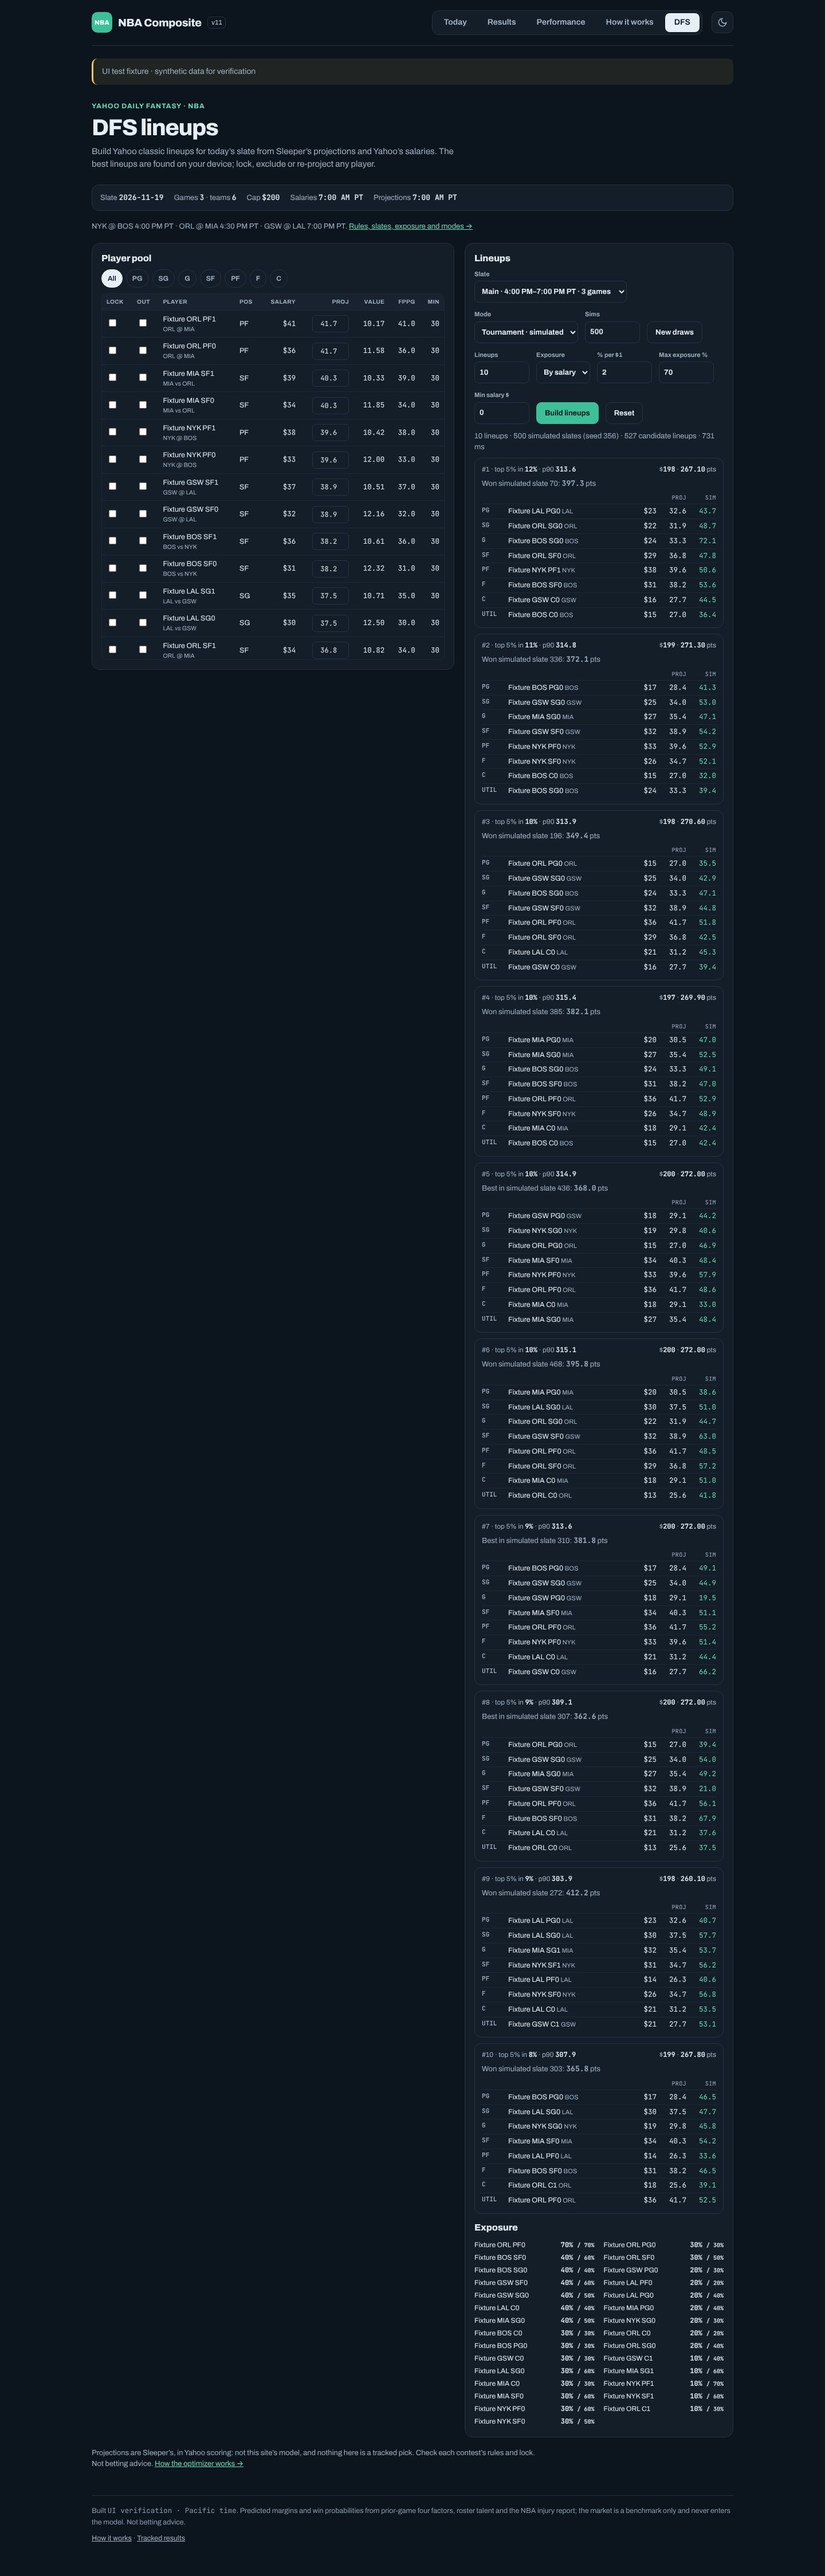
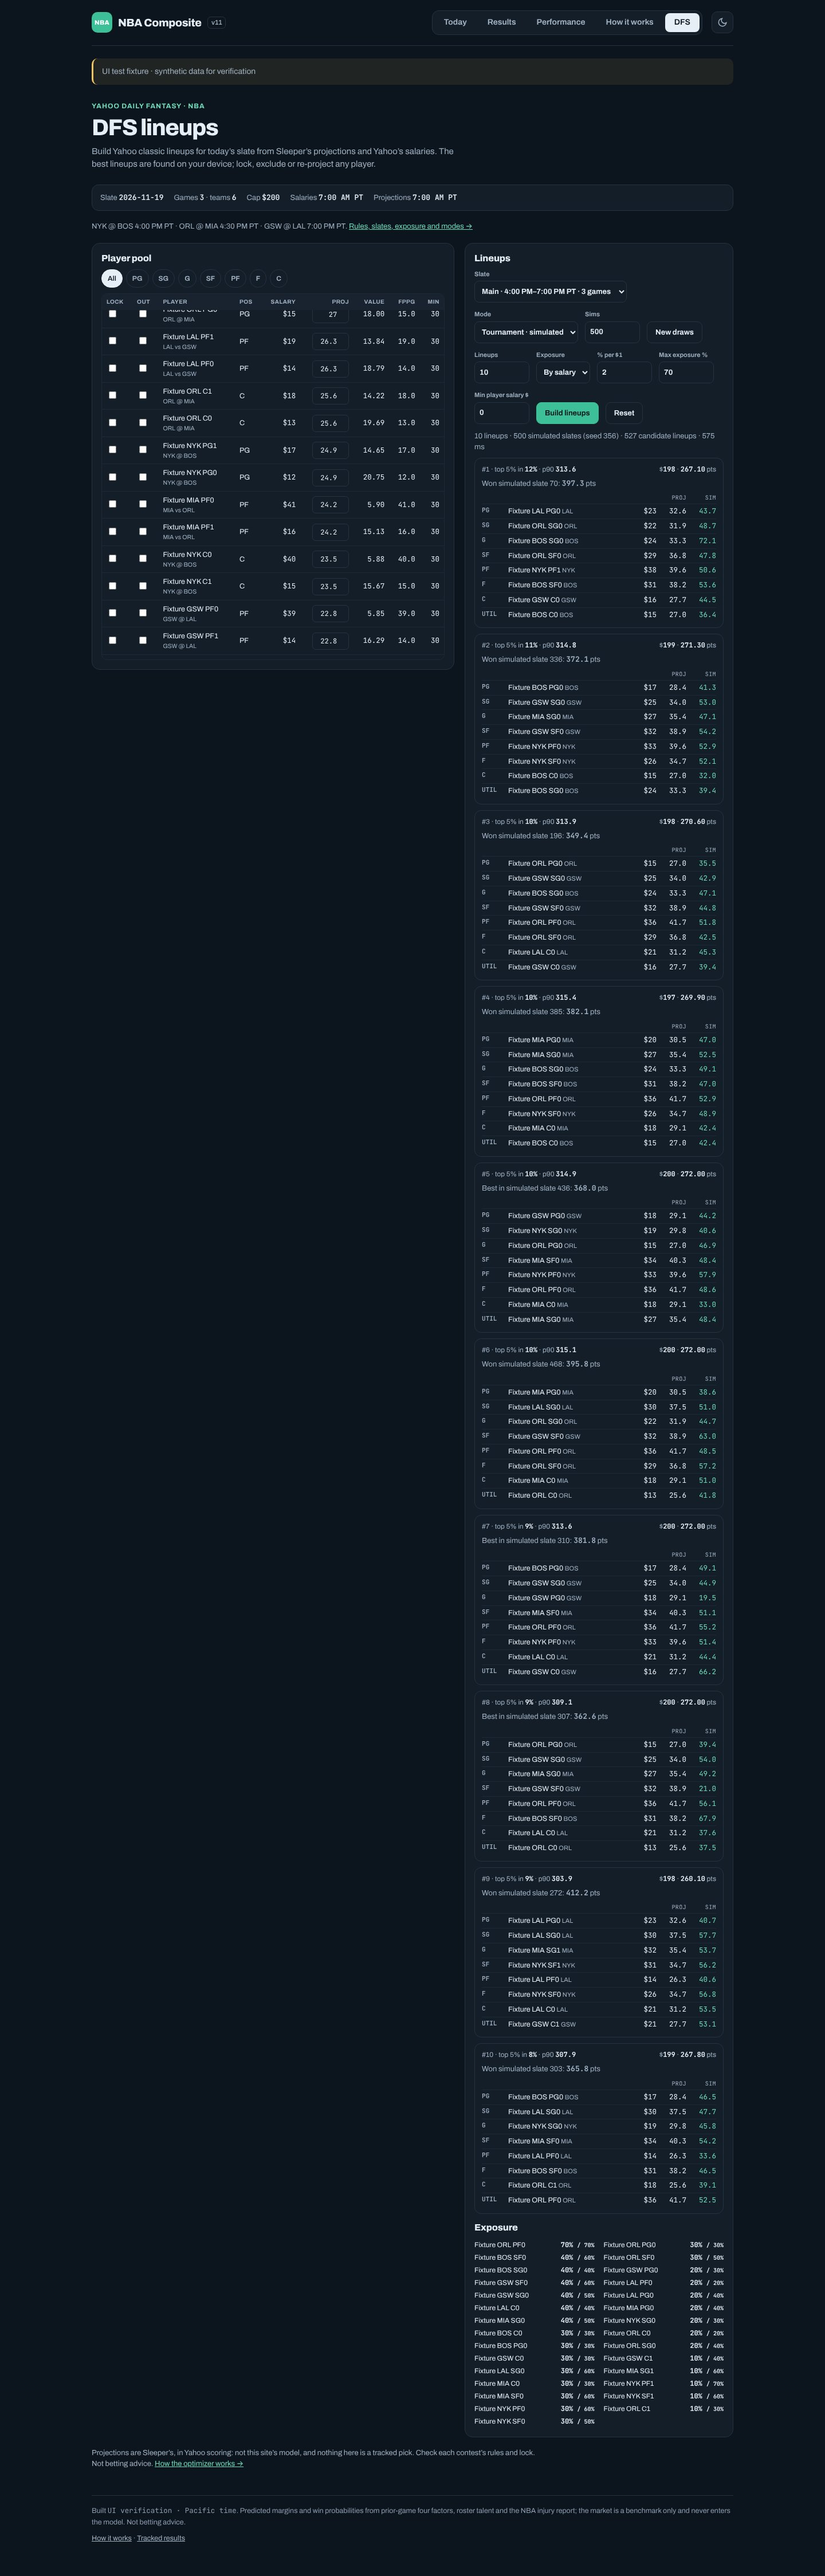
DFS page: min salary is a per-player floor, not a lineup total
Owner's request. "Min player salary $" now leaves out every player priced
below it (locked players stay; the table greys them out, "below min"),
in cash and tournament modes. The lineup-total floor is no longer used
by the page (the solver keeps the parameter, at 0). How it works says so;
the "no legal lineup" hint names the new control.

research/check_public_ui.py: with a $20 floor no lineup holds a cheaper
player in either mode, the table marks them, and a locked $12 player is
in all 10 lineups.

Claude-Session: https://claude.ai/code/session_01Tymo9A874w1j1dz2D4UFzh

Changed region(s): [[0.125, 0.1246, 0.25, 0.2491], [0.4375, 0.1246, 0.4688, 0.2491], [0.3438, 0.1246, 0.375, 0.2491]]

diff --git a/dfs.py b/dfs.py
@@ -346,7 +346,8 @@ def body(data, ui):
                 "<option value='flat'>Flat</option></select></label>"
                 "<label id='dfs-k-l'>% per $1<input type='number' id='dfs-k' min='0.5' max='5' step='0.5' value='2'></label>"
                 "<label>Max exposure %<input type='number' id='dfs-exp' min='10' max='100' step='5' value='70'></label>"
-                f"<label>Min salary $<input type='number' id='dfs-min' min='0' max='{data['cap']:g}' value='0'></label>"
+                "<label>Min player salary $<input type='number' id='dfs-min' min='0' "
+                f"max='{max((p['sal'] for p in data['players']), default=0)}' value='0'></label>"
                 "<button type='button' class='dfs-btn primary' id='dfs-go'>Build lineups</button>"
                 "<button type='button' class='dfs-btn' id='dfs-reset'>Reset</button></div>")
     pool = ("<section class='dfs-panel'><h2>Player pool</h2>"
@@ -386,7 +387,8 @@ def guide():
         "Yahoo’s season average and <b>Min</b> Sleeper’s projected minutes.</p>"
         f"<h3>Lineup rules</h3><p>Yahoo classic contests: PG, SG, G, SF, PF, F, C and UTIL under the "
         f"cap, with players from at least {MIN_TEAMS} teams and at most {MAX_PER_TEAM} from one. "
-        "Players whose game has started are left out, and locked players are in every lineup.</p>"
+        "Players whose game has started are left out, and locked players are in every lineup. "
+        "<b>Min player salary</b> leaves out every player priced below it (locked players stay).</p>"
         "<h3>Slates</h3><p>Yahoo lists the day’s games under one cap, so the slate choices come from "
         "start times: Main (every game), Early (games up to a start time) and Late (games from one), "
         "each with at least two games.</p>"
@@ -539,7 +541,10 @@ function inSlate(p){if(!st.slate)return true;var t=Date.parse(p.start);return t>
 function esc(s){return String(s).replace(/[&<>"']/g,function(c){return {'&':'&amp;','<':'&lt;','>':'&gt;','"':'&quot;',"'":'&#39;'}[c];});}
 function proj(p){return st.proj[p.id]!==undefined?st.proj[p.id]:p.proj;}
 function started(p){return Date.parse(p.start)<=Date.now();}
-function pool(){return D.players.filter(function(p){var v=proj(p);return inSlate(p)&&!st.out[p.id]&&!started(p)&&v!==null&&v!==undefined&&(v>0||st.lock[p.id]);})
+// players under the min player salary are left out unless locked
+function floor(){return Math.max(0,+$('dfs-min').value||0);}
+function cheap(p){return p.sal<floor()&&!st.lock[p.id];}
+function pool(){return D.players.filter(function(p){var v=proj(p);return inSlate(p)&&!st.out[p.id]&&!started(p)&&!cheap(p)&&v!==null&&v!==undefined&&(v>0||st.lock[p.id]);})
  .map(function(p){return {id:p.id,pos:p.pos,sal:p.sal,v:proj(p),team:p.team,game:p.game,starter:!!p.starter,star:p.star||0,big:p.big||0,big_split:p.big_split||0};});}
 function slots(ids,byId){var ps=ids.map(function(i){return byId[i];}),used={},at={};
  function take(ok){for(var i=0;i<ps.length;i++){if(!used[i]&&ok(ps[i])){used[i]=1;return ps[i];}}return null;}
@@ -579,11 +584,11 @@ function gpp(all,team,N,cap,minSal,lock){var S=Math.max(100,Math.min(2000,+$('df
 function capShare(p){var mx=Math.max(10,Math.min(100,+$('dfs-exp').value||100))/100,k=Math.max(0,+$('dfs-k').value||0);
  return $('dfs-exprule').value==='salary'?Math.min(mx,k*p.sal/100):mx;}
 function build(){var all=pool(),byId={},team={};D.players.forEach(function(p){byId[p.id]=p;team[p.id]=p.team;});
- var N=Math.max(1,Math.min(20,+$('dfs-n').value||10)),minSal=Math.max(0,+$('dfs-min').value||0),cap={},lock={},t0=performance.now();
+ var N=Math.max(1,Math.min(20,+$('dfs-n').value||10)),minSal=0,cap={},lock={},t0=performance.now();
  all.forEach(function(p){cap[p.id]=Math.max(1,Math.floor(N*capShare(p)+1e-9));});
  Object.keys(st.lock).forEach(function(id){if(st.lock[id]&&byId[id]&&!started(byId[id])&&inSlate(byId[id]))lock[id]=1;});
  var R=($('dfs-mode').value==='gpp'?gpp:cash)(all,team,N,cap,minSal,lock),L=R.L,cnt=R.cnt,el=$('dfs-out');
- if(!L.length){el.innerHTML='';$('dfs-exposure').innerHTML='';$('dfs-msg').textContent='No legal lineup: check the locks, exclusions and minimum salary.';return;}
+ if(!L.length){el.innerHTML='';$('dfs-exposure').innerHTML='';$('dfs-msg').textContent='No legal lineup: check the locks, exclusions and min player salary.';return;}
  $('dfs-msg').textContent=L.length+' lineup'+(L.length>1?'s':'')+(R.note?' · '+R.note:' · best '+L[0].v.toFixed(2)+' pts')+(L.length<N?' · fewer than asked under these caps':'')+' · '+Math.round(performance.now()-t0)+' ms';
  el.innerHTML=L.map(function(l,i){var sim=!!l.sim;return "<article class='dfs-lineup'><header><span>#"+(i+1)+(l.top!==undefined?" · top 5% in <b>"+(100*l.top).toFixed(0)+"%</b> · p90 <b>"+l.p90.toFixed(1)+"</b>":"")+"</span><span>$<b>"+l.sal+"</b> · <b>"+l.v.toFixed(2)+"</b> pts</span></header>"+
   (sim?"<p class='dfs-msg' style='margin:0 0 4px'>"+(l.won!==undefined?"Won":"Best in")+" simulated slate "+(l.slate+1)+": <b class='mono'>"+l.simTotal.toFixed(1)+"</b> pts</p>":"")+"<ol>"+
@@ -595,11 +600,11 @@ function build(){var all=pool(),byId={},team={};D.players.forEach(function(p){by
   (lock[id]?" · locked":" <small>/ "+Math.round(100*cap[id]/N)+"%</small>")+"</b></li>";}).join('');}
 function draw(){var rows=D.players.slice().sort(function(a,b){return (proj(b)||0)-(proj(a)||0)||b.sal-a.sal;});
  $('dfs-pool').innerHTML=rows.filter(function(p){return inSlate(p);}).filter(function(p){return st.pos==='ALL'||p.pos===st.pos||(st.pos==='G'&&(p.pos==='PG'||p.pos==='SG'))||(st.pos==='F'&&(p.pos==='SF'||p.pos==='PF'));}).map(function(p){
-  var v=proj(p),gone=started(p),cls=st.lock[p.id]?'locked':(st.out[p.id]||gone?'out':'');
+  var v=proj(p),gone=started(p),cls=st.lock[p.id]?'locked':(st.out[p.id]||gone||cheap(p)?'out':'');
   return "<tr class='"+cls+"' data-id='"+esc(p.id)+"'><td><input type='checkbox' data-act='lock' aria-label='Lock "+esc(p.name)+"'"+(st.lock[p.id]?' checked':'')+(gone?' disabled':'')+"></td>"+
    "<td><input type='checkbox' data-act='out' aria-label='Exclude "+esc(p.name)+"'"+(st.out[p.id]||gone?' checked':'')+(gone?' disabled':'')+"></td>"+
    "<td class='nm'>"+esc(p.name)+(p.inj?"<span class='dfs-inj'>"+esc(p.inj)+"</span>":"")+"<small><span class='mpos'>"+p.pos+" · </span>"+esc(p.team)+(p.home?' vs ':' @ ')+esc(p.opp)+(gone?' · started':'')+"</small></td>"+
-   "<td class='x'>"+p.pos+"</td><td class='n'>$"+p.sal+"</td><td class='n'><input type='number' step='0.1' min='0' data-act='proj' aria-label='Projection for "+esc(p.name)+"' value='"+(v===null||v===undefined?'':v)+"'></td>"+
+   "<td class='x'>"+p.pos+"</td><td class='n'>$"+p.sal+(cheap(p)?"<small>below min</small>":"")+"</td><td class='n'><input type='number' step='0.1' min='0' data-act='proj' aria-label='Projection for "+esc(p.name)+"' value='"+(v===null||v===undefined?'':v)+"'></td>"+
    "<td class='n x'>"+(v?(10*v/p.sal).toFixed(2):'—')+"</td><td class='n x'>"+(p.fppg===null?'—':p.fppg.toFixed(1))+"</td><td class='n x'>"+(p.min===null?'—':p.min)+"</td></tr>";}).join('');}
 $('dfs-pos').innerHTML=['ALL','PG','SG','G','SF','PF','F','C'].map(function(k){return "<button type='button' data-pos='"+k+"' aria-pressed='"+(k===st.pos)+"'>"+(k==='ALL'?'All':k)+"</button>";}).join('');
 $('dfs-pos').addEventListener('click',function(e){var b=e.target.closest('button');if(!b)return;st.pos=b.dataset.pos;
@@ -615,6 +620,7 @@ $('dfs-mode').addEventListener('change',function(){$('dfs-sims-l').hidden=$('dfs
 $('dfs-reseed').addEventListener('click',function(){st.seed=1+Math.floor(Math.random()*2147483646);run();});
 $('dfs-exprule').addEventListener('change',function(){$('dfs-k-l').hidden=this.value!=='salary';run();});
 $('dfs-go').addEventListener('click',run);
+$('dfs-min').addEventListener('change',draw);
 $('dfs-reset').addEventListener('click',function(){st.lock={};st.out={};st.proj={};st.seed=D.sim.seed;draw();run();});
 draw();run();
 })();

diff --git a/research/check_public_ui.py b/research/check_public_ui.py
@@ -198,6 +198,27 @@ def main():
                             assert page.locator('.dfs-lineup').count() == 10, (mode, rule)
                             assert all(n <= max(1, cap(s)) for _, n, s in used), (mode, rule, used)
                     assert page.locator('#dfs-k').is_hidden()       # flat: no per-$1 input
+                    # min player salary: nobody under it, except a locked player
+                    sal = page.evaluate("() => Object.fromEntries(JSON.parse(document.getElementById('dfs-data').textContent).players.map(p => [p.name, [p.sal, p.id]]))")
+                    cheap = min((v for v in sal.items() if v[1][0] < 20), key=lambda kv: kv[1][0])
+                    page.fill('#dfs-min', '20')
+                    page.locator('#dfs-min').dispatch_event('change')
+                    for mode in ('cash', 'gpp'):
+                        page.select_option('#dfs-mode', mode)
+                        page.click('#dfs-go')
+                        page.wait_for_function("!document.getElementById('dfs-go').disabled && /lineup/.test(document.getElementById('dfs-msg').textContent)")
+                        names = [n for n, _, _ in page.evaluate(counts)]
+                        assert names and all(sal[n][0] >= 20 for n in names), (mode, names)
+                    assert page.locator('#dfs-pool tr.out', has_text='below min').count() > 0
+                    page.locator(f"#dfs-pool tr[data-id='{cheap[1][1]}'] input[data-act='lock']").check()
+                    page.select_option('#dfs-mode', 'cash')
+                    page.click('#dfs-go')
+                    page.wait_for_function("!document.getElementById('dfs-go').disabled && /lineup/.test(document.getElementById('dfs-msg').textContent)")
+                    assert page.locator('.dfs-lineup', has_text=cheap[0]).count() == page.locator('.dfs-lineup').count() == 10
+                    page.fill('#dfs-min', '0')
+                    page.locator('#dfs-min').dispatch_event('change')
+                    page.click('#dfs-reset')
+                    page.wait_for_function("!document.getElementById('dfs-go').disabled && /lineup/.test(document.getElementById('dfs-msg').textContent)")
                     page.select_option('#dfs-exprule', 'salary')
                     page.select_option('#dfs-mode', 'gpp')
                     page.wait_for_function("/simulated slates/.test(document.getElementById('dfs-msg').textContent)")
@@ -211,7 +232,7 @@ def main():
                     page.click('#dfs-reset')
                     page.wait_for_function("/seed 356\\)/.test(document.getElementById('dfs-msg').textContent)")
                     page.screenshot(path=str(out/f'{device}-fixture-dfs.jpg'),full_page=True,type='jpeg',quality=85)
-                    checks.append(f'{device}: DFS fixture · Main, Early and Late slates each build 10 lineups from their own games; tournament mode builds 10 simulated lineups; exposure by salary (2% per $1, max 70%) and flat caps hold in both modes; tournament lineups show the points of the slate they won; New draws reseeds')
+                    checks.append(f'{device}: DFS fixture · Main, Early and Late slates each build 10 lineups from their own games; tournament mode builds 10 simulated lineups; exposure by salary (2% per $1, max 70%) and flat caps hold in both modes; tournament lineups show the points of the slate they won; New draws reseeds; the min player salary leaves out cheaper players except a locked one')
                 assert not errors,errors
                 # Live-score overlay may update status/score only, never a selection.
                 page.unroute_all()
